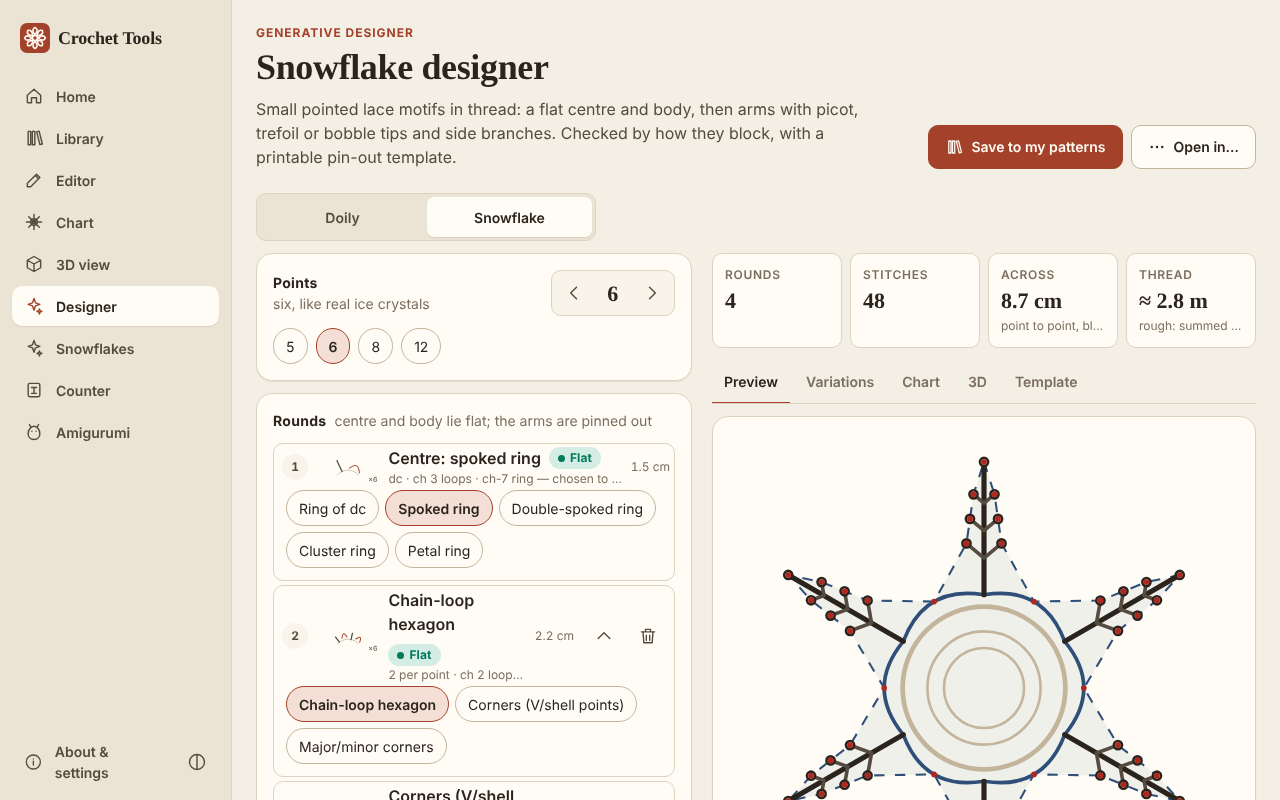
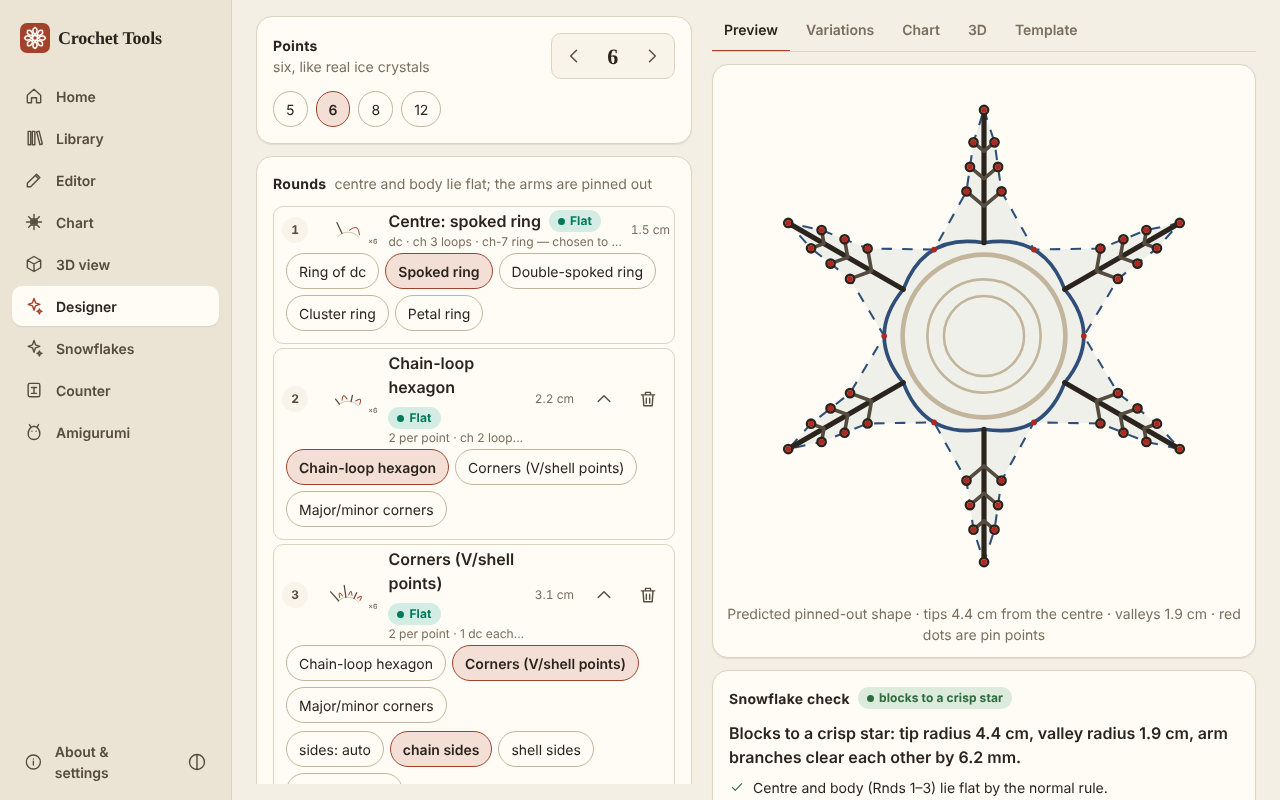
Corpus: fix sunburst doily Rnd 8 (fans belong in the V spaces), found by the symmetry analysis
Claude-Session: https://claude.ai/code/session_01UMQowqdXjqFEaWJpRQsUYC

diff --git a/app/src/core/symmetry/symmetry.test.ts b/app/src/core/symmetry/symmetry.test.ts
@@ -42,7 +42,7 @@ const EXPECTED: Record<string, string> = {
   'spiral-sc-mat-fan-edge': 'C6',
   // Rnd 8 puts its first fan in the V's ch-3 sp but the other 19 in the sp after the sc (a
   // transcription slip in the corpus file, reported): 20-fold up to Rnd 7, a defect in Rnd 8
-  'sunburst-dtr-doily-20': 'C1',
+  'sunburst-dtr-doily-20': 'D20',
   'teaching-cup-basket': 'C6',
   'teaching-ruffle-shell-doily': 'C12',
   'uk-terms-wheel-16': 'D16',
@@ -67,20 +67,23 @@ describe('analyzeSymmetry on fixtures and corpus', () => {
       expect(report.summary[0]).toMatch(/^Whole piece/);
       // the name's "-N" is the order of the piece, except where documented above
       const m = /-(\d+)$/.exec(name);
-      if (m && !['picot-coaster-24', 'solid-centre-lace-border-24', 'sunburst-dtr-doily-20'].includes(name)) {
+      if (m && !['picot-coaster-24', 'solid-centre-lace-border-24'].includes(name)) {
         expect(report.order).toBe(Number(m[1]));
       }
-      if (name !== 'sunburst-dtr-doily-20') expect(report.defects).toEqual([]);
+      expect(report.defects).toEqual([]);
     });
   }
 
-  it('documents the deviations: last-round order of the picot coaster, the sunburst defect', () => {
+  it('documents the deviations: last-round order of the picot coaster; finds the slip the sunburst doily originally had', () => {
     const picot = analyze(readFileSync(`${CORPUS}picot-coaster-24.cro`, 'utf8')).report;
     expect(picot.rounds.at(-1)!.order).toBe(24);
     expect(picot.rounds.at(-1)!.cumulative).toBe(12);
     const border = analyze(readFileSync(`${CORPUS}solid-centre-lace-border-24.cro`, 'utf8')).report;
     expect(border.rounds.slice(6).map((r) => r.order)).toEqual([24, 24, 24, 24]);
-    const sun = analyze(readFileSync(`${CORPUS}sunburst-dtr-doily-20.cro`, 'utf8')).report;
+    // The corpus file once lacked this skip in Rnd 8's repeat (found by this analysis, since fixed).
+    const sunText = readFileSync(`${CORPUS}sunburst-dtr-doily-20.cro`, 'utf8');
+    expect(sunText).toContain('*sk next ch-3 sp, (3 dc, picot, 3 dc)');
+    const sun = analyze(sunText.replace('*sk next ch-3 sp, (3 dc, picot, 3 dc)', '*(3 dc, picot, 3 dc)')).report;
     expect(sun.rounds.slice(0, 7).every((r) => r.cumulative === 20)).toBe(true);
     expect(sun.defects).toHaveLength(1);
     expect(sun.defects[0].round).toBe(7);
